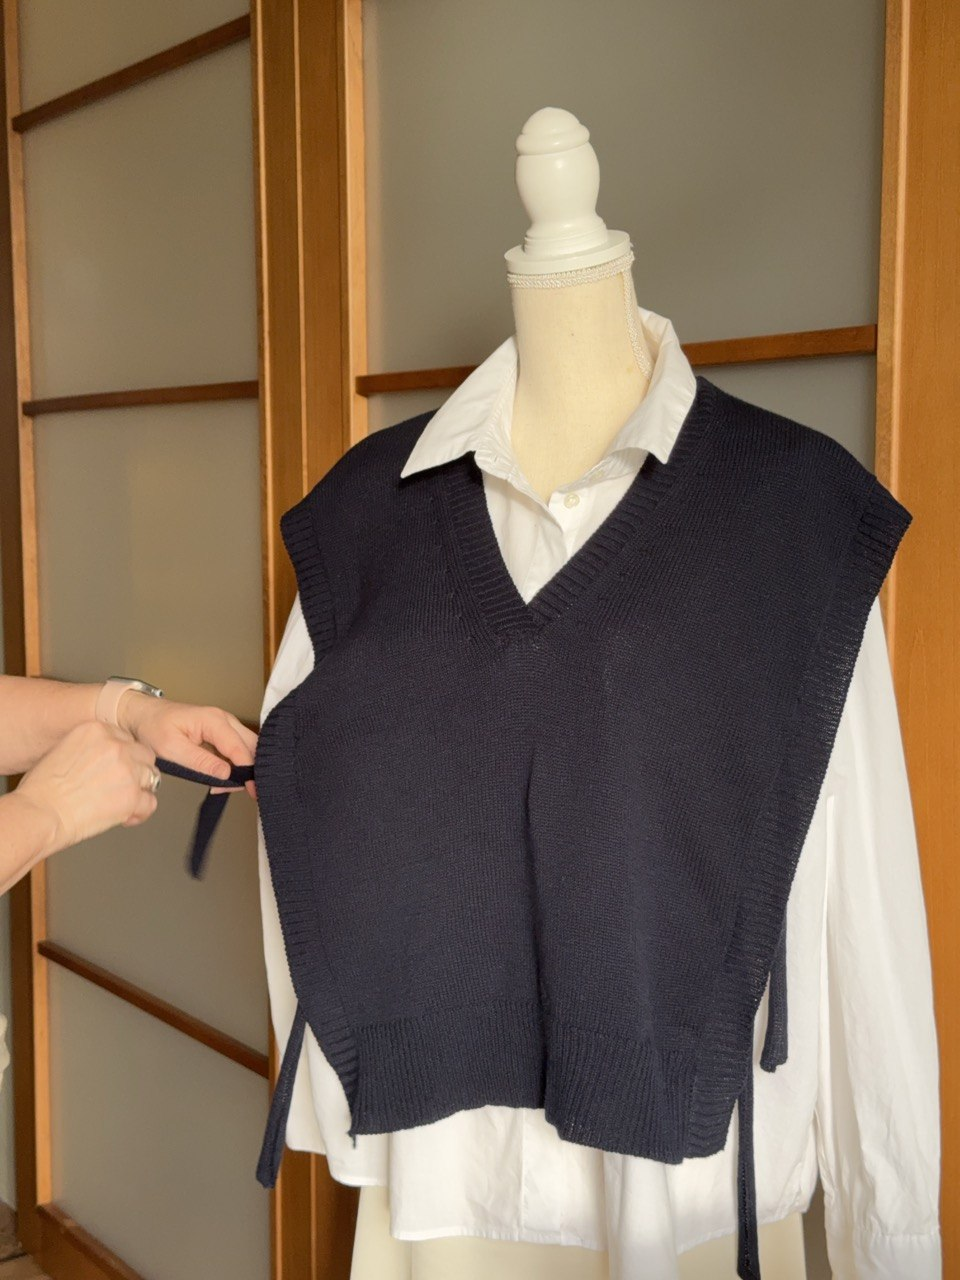
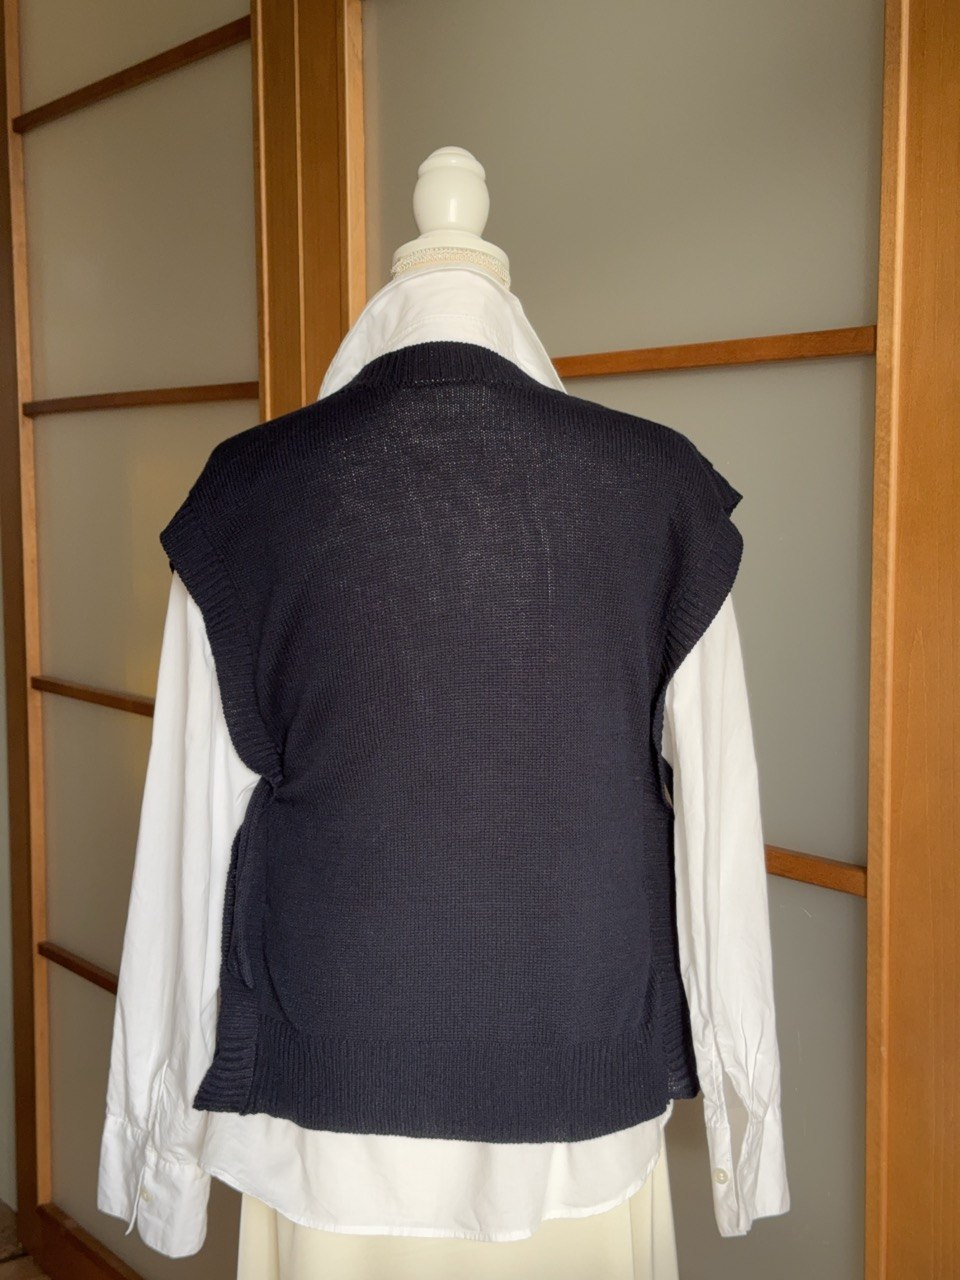
new photo orda

diff --git a/index.html b/index.html
@@ -14092,7 +14092,7 @@ header.topbar.header-hidden{
       },
       note: singleColourNote,
       colors: ["#2b2a28"],
-      images: ["photos/dress-1-1.jpeg", "photos/dress-1-2.jpeg", "photos/dress-1-3.jpeg"],
+      images: ["photos/dress-1-0.jpeg", "photos/dress-1-1.jpeg", "photos/dress-1-2.jpeg", "photos/dress-1-3.jpeg"],
       orderText: { en:"Hi! I'd like to order Orda", ru:"Здравствуйте! Хочу заказать Orda", lv:"Sveiki! Vēlos pasūtīt Orda" }
     },
     {
@@ -14269,11 +14269,10 @@ header.topbar.header-hidden{
         lv:`<ul class="care-list"><li><strong>Mazgāšana:</strong> ar rokām vēsā ūdenī, līdz 30°C.</li><li><strong>Žāvēšana:</strong> saudzīgi nosusināt lieko ūdeni, iztaisnot un žāvēt horizontāli.</li><li><strong>Tvaicēšana:</strong> saudzīgi, no neliela attāluma un zemā temperatūrā.</li><li><strong>Ķīmiskā tīrīšana:</strong> ja nepieciešams - profesionāla un saudzīga.</li></ul>`
       },
       note: singleColourNote,
-      colors: ["#66749a"],
+      colors: ["#30395b"],
       images: [
         "photos/milo-1.jpeg",
-        "photos/milo-2.jpeg",
-        "photos/milo-3.jpeg"
+        "photos/milo-2.jpeg"
       ],
       orderText: {
         en:"Hi! I'd like to order the Milo vest",
